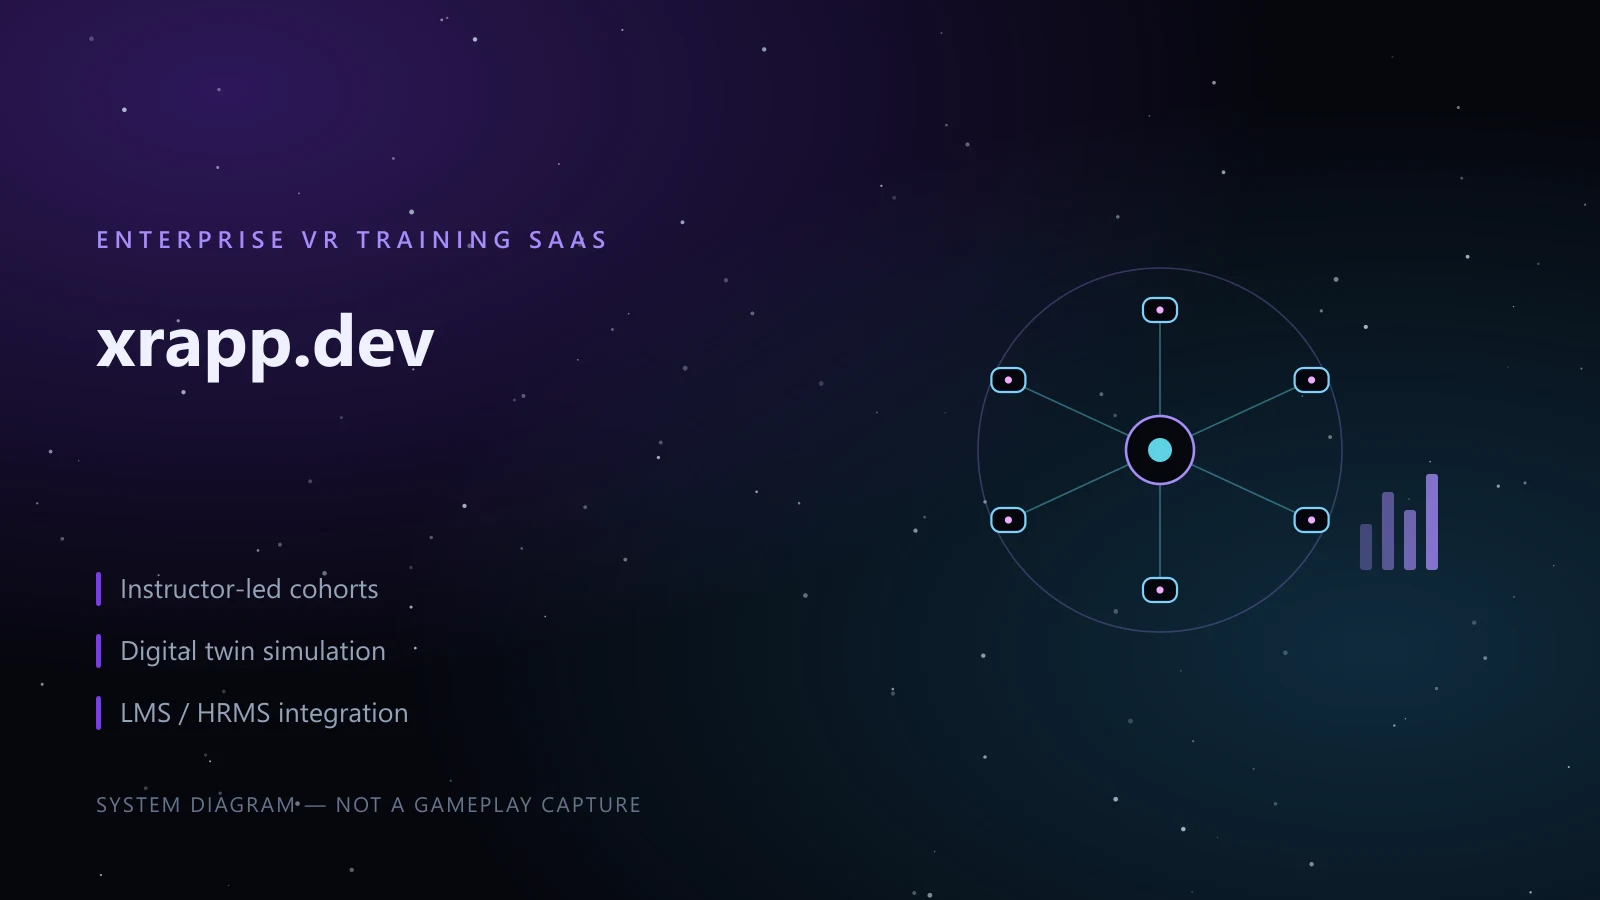
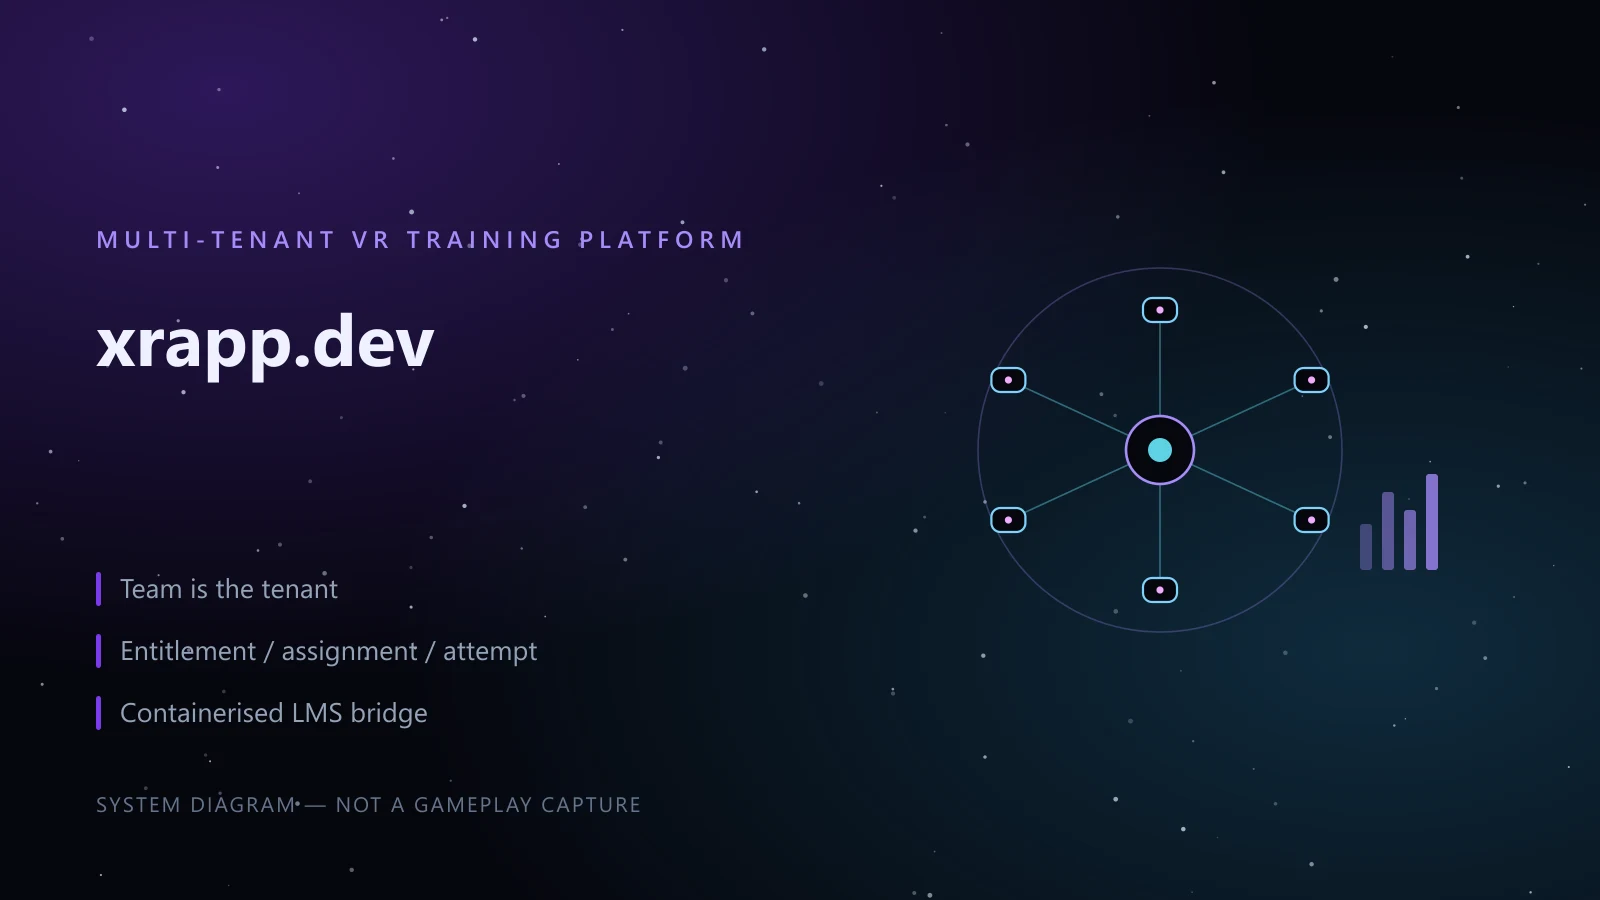
Expand the xrapp.dev case study into a platform-led one
The page was 40 lines of product bullets with no architecture in it,
which made the site's most architect-shaped project its thinnest. This
rewrites it from the actual Drizzle schema and service layout.

Covers the decisions rather than the feature list: the team as tenant
with Stripe billing scoped to it rather than to a user; entitlement,
assignment and attempt kept as three tables so training history survives
roster and catalogue churn; the nullable assignment_id and the
unstructured attempt_data, with the reasoning for both; split identity
between Supabase Auth and a local users table; and the LMS bridge as a
separate containerised service rather than a module.

Query-layer tenant isolation is stated as a deliberate trade-off against
row-level security rather than left implicit.

Scope is kept honest: analytics, digital-twin content and offline
deployment are named as designed-not-built. The card art dropped the
digital-twin claim for the same reason.

diff --git a/scripts/generate-project-cards.js b/scripts/generate-project-cards.js
@@ -119,10 +119,10 @@ const CARDS = [
   },
   {
     slug: 'xrapp-dev',
-    eyebrow: 'ENTERPRISE VR TRAINING SAAS',
+    eyebrow: 'MULTI-TENANT VR TRAINING PLATFORM',
     title: 'xrapp.dev',
     title2: '',
-    facts: ['Instructor-led cohorts', 'Digital twin simulation', 'LMS / HRMS integration'],
+    facts: ['Team is the tenant', 'Entitlement / assignment / attempt', 'Containerised LMS bridge'],
     motif: hubMotif,
     seed: 4102,
   },

diff --git a/src/content/projects/xrapp-dev.md b/src/content/projects/xrapp-dev.md
@@ -1,41 +1,21 @@
 ---
-title: xrapp.dev — Enterprise VR Training SaaS
+title: xrapp.dev — Enterprise VR Training Platform
 company: 2 Dude Studios
 role: Lead XR Engineer
 timeframe: In development
-stack: [Unity 3D, PERN stack, PostgreSQL, Node.js, React, Photon, Meta Quest]
-summary: Enterprise VR training platform for multiplayer, instructor-led sessions with digital-twin simulations and AI-powered training analytics.
-outcome: Targets manufacturing, logistics, and healthcare training, with LMS/HRMS integration and offline deployment for remote sites.
+stack: [Next.js, PostgreSQL, Drizzle ORM, Supabase Auth, Stripe, Node.js, Express, Docker, Unity 3D, Meta Quest]
+summary: Multi-tenant VR training platform where the organisation is the tenant - entitlement, assignment, and attempt are modelled apart so training history survives roster and catalogue changes.
+outcome: A nine-table PostgreSQL model behind a Next.js admin, Stripe billing scoped to the team rather than the user, and a separate containerised service bridging progress back to the customer's LMS.
 order: 6
 ---
 
-Enterprise training tools tend to fail in one of two ways: the content is a slide deck
-nobody retains, or the immersive pilot never connects to the systems an L&D team
-already runs. xrapp.dev is built to close both gaps.
+An organisation buys a training module once, assigns it to forty people, and each of those people attempts it several times over two years — failing, retrying, passing, then re-certifying. Staff leave. Modules get retired from the catalogue. Eighteen months later a compliance auditor asks who was certified on what, on which date, under which version.
 
-## What it does
+Most training tools collapse that into one row per person per course, and the answer stops being recoverable the moment anything changes. The modelling problem is the product.
 
-xrapp.dev lets an organisation train teams inside immersive environments rather than
-in front of slides, and then reports on what actually happened in the session:
+## What I built
 
-- **Multiplayer and instructor-led VR sessions** — a trainer can run a cohort through a
-  scenario together, in the same virtual space.
-- **Digital twin simulations** of real facilities and equipment, so the rehearsal matches
-  the site the trainee will work on.
-- **SOP, safety, and hazard training modules** — branching scenarios with decision points
-  rather than linear walkthroughs.
-- **AI-powered analytics** covering completion rates, skill gaps, and compliance reporting.
-- **LMS / HRMS integration**, plus offline deployment for remote sites with no reliable
-  connectivity.
-
-## How it is built
-
-The headset client is Unity, targeting standalone Meta Quest hardware so a deployment
-needs no tethered PC per trainee. The platform side — accounts, cohort management,
-content assignment, and the analytics surface — runs on the PERN stack:
-PostgreSQL, Express, React, and Node.js. Session networking reuses the same multiplayer architecture behind the
-free-roam arena work: server-authoritative state with client-side prediction, so a full
-cohort stays synchronized.
+The platform side of xrapp.dev: a Next.js admin application over PostgreSQL, with the headset client in Unity on standalone Meta Quest. The database is accessed through Drizzle, identity comes from Supabase Auth, billing runs on Stripe, and a separate containerised Express service carries progress back into whatever LMS the customer already runs.
 
 <figure class="shot-figure">
   <picture>
@@ -46,7 +26,44 @@ cohort stays synchronized.
   <figcaption>In active development and not yet publicly released - this shows the session architecture rather than the product UI.</figcaption>
 </figure>
 
+## The team is the tenant
+
+Every row that matters carries a `team_id`. A team owns its members, its purchased modules, its assignments, its attempt history, and its audit log — and it is the team, not the user, that holds `stripe_customer_id`, `stripe_subscription_id`, `plan_name`, and `subscription_status`.
+
+That last part is the decision people get wrong. If billing hangs off a user, the account dies with the employee who signed up and a seat change becomes a migration. Hanging it off the team means the person who pays, the person who administers, and the person who trains are three different roles against one durable entity.
+
+Isolation is enforced in the query layer rather than with row-level security: a request resolves the caller's team once, and every query is scoped through it. That trades the database-level guarantee RLS would give for a single place to reason about access, which is the right call at this size and the wrong one at a much larger one. It is written down as a decision rather than left as an accident, because it is the thing to revisit first if the platform grows into customer-managed sub-orgs.
+
+## Entitlement, assignment, and attempt are three different things
+
+This is the core of the model, and it is three tables rather than one by deliberate choice:
+
+- **`team_training_modules`** — what a team is *entitled* to. Records `acquired_via`, `price_paid`, `currency`, and `transaction_id`, so a module bought in a bundle, bought outright, or granted free is distinguishable two years later.
+- **`member_training_assignments`** — who was *asked* to do it, by whom, and when. Carries `assigned_by`, which turns "who put this person on this course" into a query rather than a conversation.
+- **`training_attempts`** — what actually *happened*. Many per assignment, each with `status`, `score`, `started_at`, and `completed_at`.
+
+Keeping them apart is what makes the auditor's question answerable. Entitlement survives a module being retired from the catalogue. Assignment survives the assigner leaving. Attempts accumulate instead of overwriting, so a re-certification two years later sits alongside the original pass rather than replacing it.
+
+`assignment_id` on an attempt is deliberately nullable — someone can run a module they are entitled to without having been assigned it, and that attempt is still real and still worth recording. A non-null foreign key there would have forced a fake assignment row for every self-directed run.
+
+`attempt_data` stays a serialized blob rather than a set of columns. What a scenario needs to record — branch taken, hazard missed, time at each station — differs per module and is not yet stable enough to model. Freezing it into a schema now would mean a migration every time a module author wants a new field.
+
+## Identity lives in two places on purpose
+
+Supabase Auth owns credentials and sessions. A local `users` table owns domain identity — role, soft-delete, team membership — and the two are joined by a unique `auth_user_id`.
+
+The duplication is the point. Domain tables get integer foreign keys and a user row that can be soft-deleted for audit history without destroying the auth record, and the authentication provider stays replaceable without rewriting every foreign key in the schema.
+
+Presence sits on the membership row rather than the user: `is_online`, `last_seen_at`, `last_seen_device_type`, and `last_seen_device_name`. An instructor about to start a cohort session needs to know who is actually in a headset right now, not who has an account.
+
+## The LMS bridge is a separate service
+
+Customers already run an LMS, and that is where their compliance reporting lives. The bridge is a small Express service — not a module inside the platform — exposing a narrow surface: fetch the course list, push a progress record. It authenticates with JWT, ships as a container, and has its own test suite and CI pipeline.
+
+Keeping it out of the main application means a customer's integration quirks never reach the platform's schema, and the bridge can be deployed, versioned, and broken independently of the product.
+
 ## Status
 
-In active development, targeting the manufacturing, logistics, and healthcare training
-markets. Live at [xrapp.dev](https://xrapp.dev/).
+In active development. The multi-tenant data model, authentication, team and role management, Stripe subscription handling, the module catalogue with assignment and attempt tracking, and the LMS bridge service are built. The analytics surface, digital-twin scenario content, and offline deployment for sites without reliable connectivity are designed but not yet implemented.
+
+The headset client reuses the authoritative-session architecture from the [free-roam arena work](/projects/free-roam-vr-arena/) — one host owning state, clients contributing input.
